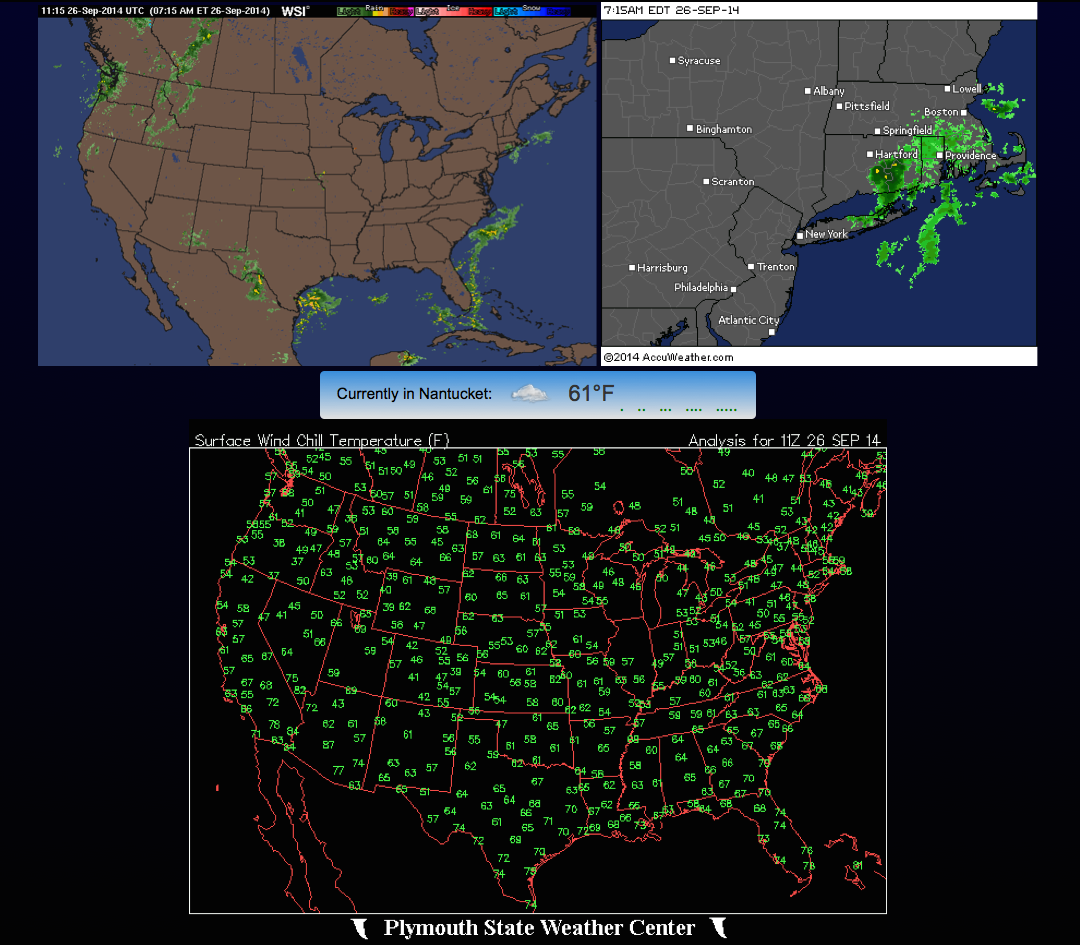
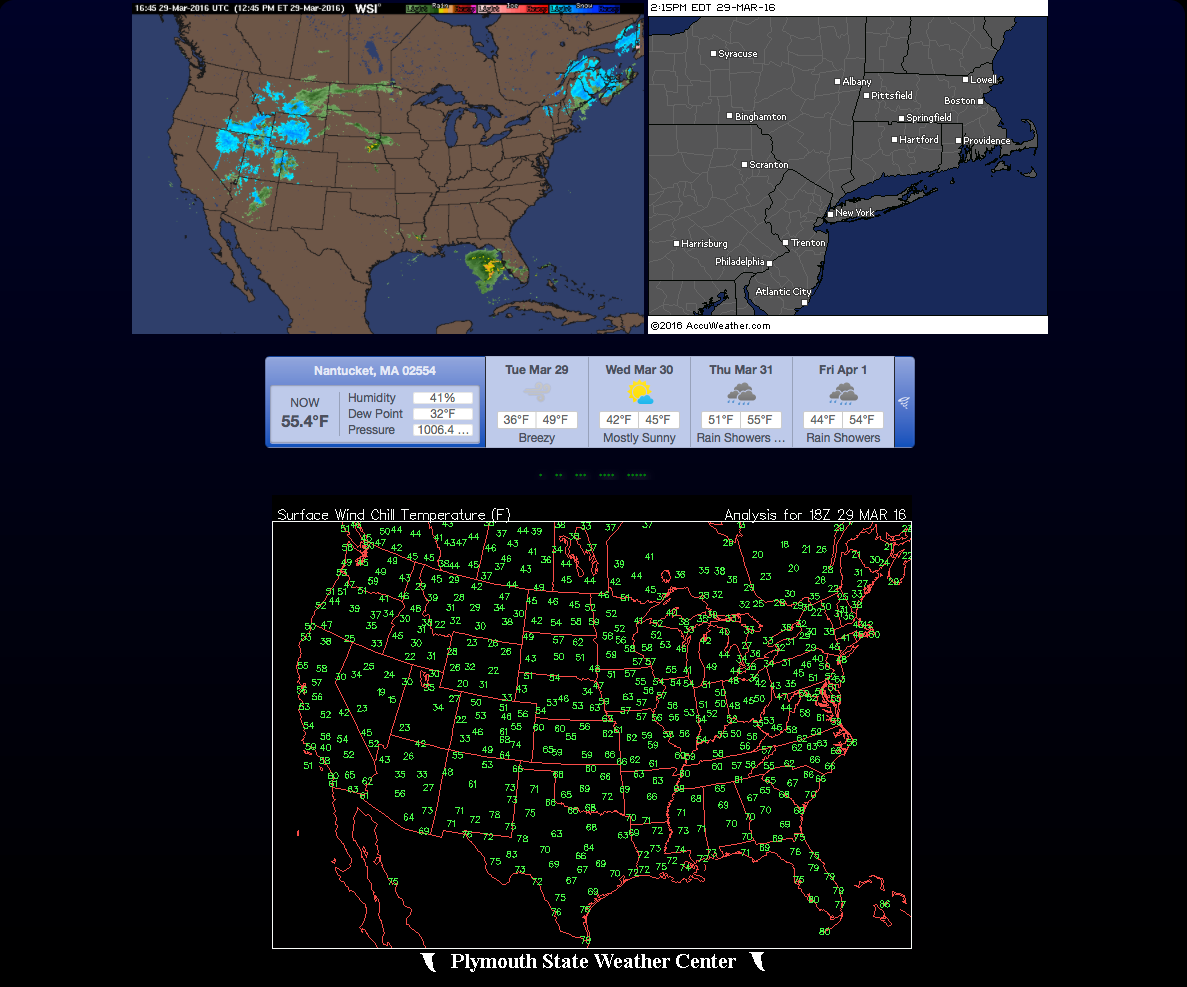
Update
Yahoo changed their YQL API to require keys, so the live weather data
is  now coming from WillyWeather along with a lot more data.

diff --git a/weather.html b/weather.html
@@ -5,27 +5,28 @@
 	<meta http-equiv="Content-Type" content="text/html; charset=UTF-8" />
 	<meta http-equiv="REFRESH" content="600"> <!-- refresh page every 10min-->
 	<style type="text/css"> 
-		.centeredImage { text-align:center; margin-top:0px; margin-bottom:0px; padding:0px; 
+		.centeredImage { 
+		    text-align: center; margin-top:0px; margin-bottom:0px; padding:0px; 
                         -webkit-border-radius: 15px;
                         border-radius: 15px;
  			background: -moz-linear-gradient(top, rgba(0,0,40,1) 0%, rgba(0,0,0,1) 100%); /* FF3.6+ */
                         background: -webkit-gradient(linear, left top, left bottom, color-stop(0%,rgba(10,10,40,1)), color-stop(100%,rgba(0,0,0,1)));       
                         background: -webkit-linear-gradient(top, rgba(0,0,40,1) 0%,rgba(0,0,0,1) 100%);
-			 background: -o-linear-gradient(top, rgba(0,0,40,1) 0%,rgba(0,0,0,1) 100%); /* Opera11.10+ */
+			            background: -o-linear-gradient(top, rgba(0,0,40,1) 0%,rgba(0,0,0,1) 100%); /* Opera11.10+ */
                         background: -ms-linear-gradient(top, rgba(0,0,40,1) 0%,rgba(0,0,0,1) 100%); /* IE10+ */
-			filter: progid:DXImageTransform.Microsoft.gradient( startColorstr='#f0f0f0', endColorstr='#e0e0e0',GradientType=0 ); /* IE6-9 */
+			            filter: progid:DXImageTransform.Microsoft.gradient( startColorstr='#f0f0f0', endColorstr='#e0e0e0',GradientType=0 ); /* IE6-9 */
                         background: linear-gradient(top, rgba(0,0,40,1) 0%,rgba(0,0,0,1) 100%); /* W3C */		
 		} 
 		body {background: black;}
 		A:visited, A:link, A:active  { text-decoration: none; color: green; text-shadow: 2px 2px 8px #ffffff}
 
 		#wxWrap {
-			width: 375px;
+			width: 630px;
 			background: #EEE; /* Old browsers */
 			background: -moz-linear-gradient(top, rgba(56,141,219,1) 0%, rgba(224,224,224,1) 100%); /* FF3.6+ */
 			background: -webkit-gradient(linear, left top, left bottom, color-stop(0%,rgba(56,141,14,1)), color-stop(100%,rgba(224,224,224,1))); /* Chrome,Safari4+ */
-			background: -webkit-linear-gradient(top, rgba(56,141,219,1) 0%,rgba(224,224,224,1) 100%); /* Chrome10+,Safari5.1+ */
-			background: -o-linear-gradient(top, rgba(56,141,219,1) 0%,rgba(224,224,224,1) 100%); /* Opera11.10+ */
+			background: -webkit-linear-gradient(top, rgba(57,63,85,1) 0%,rgba(224,224,224,1) 100%); /* Chrome10+,Safari5.1+ */
+			background: -o-linear-gradient(top, rgba(23,75,161,1) 0%,rgba(224,224,224,1) 100%); /* Opera11.10+ */
 			background: -ms-linear-gradient(top, rgba(56,141,219,1) 0%,rgba(224,224,224,1) 100%); /* IE10+ */
 			filter: progid:DXImageTransform.Microsoft.gradient( startColorstr='#f0f0f0', endColorstr='#e0e0e0',GradientType=0 ); /* IE6-9 */
 			background: linear-gradient(top, rgba(56,141,219,1) 0%,rgba(224,224,224,1) 100%); /* W3C */
@@ -34,36 +35,7 @@
 			-moz-border-radius: 4px;
 			border-radius: 4px;
 		}
-		#wxIntro {
-			display: inline-block;
-			font: 14px/20px Arial,Verdana,sans-serif;
-			color: black;
-			vertical-align: top;
-			padding-top: 9px;
-		}
-		#wxIcon {
-			display: inline-block;
-			width: 61px;
-			height: 34px;
-			margin: 2px 0 -1px 1px;
-			overflow: hidden;
-			background: url('http://l.yimg.com/a/lib/ywc/img/wicons.png') no-repeat 61px 0;
-		}
-		#wxIcon2 {
-			display: inline-block;
-			width: 34px;
-			height: 34px;
-			margin: 1px 6px 0 8px;
-			overflow: hidden;
-		}
-		#wxTemp {
-			display: inline-block;
-			font: 20px/28px Arial,Verdana,sans-serif;
-			color: #333;
-			vertical-align: top;
-			padding-top: 5px;
-			margin-left: 0;
-		}
+
 	</style>
 	<script> 
 		// This is the implementation of SimpleSwap
@@ -111,58 +83,25 @@
 	 <img width="512" height="331" src="http://images.intellicast.com/WxImages/RadarLoop/usa_None_anim.gif" title="North America-- Intellicast, but click and go to Forcast.io for more detail.">
 	 <img src="http://sirocco.accuweather.com/nx_mosaic_400x300c/SIR/inmaSIRCT_.gif" title="NE Region-- Accuweather, but click and go to Forcast.io for more detail.">
 	</a><br>
-	
-	<!--Insert current weather temp from Yahoo's YQL-->
-	<span id="wxWrap" style="display: inline-block;">
-		<span id="wxIntro">
-				Currently in Nantucket: 
-		</span>
-		<span id="wxIcon"></span>
-		<span id="wxTemp"></span>
+	<br>
+    <span style="width: 650px;">
+		<iframe style="display: inline-block;" src="http://cdnres.willyweather.com/widget/loadView.html?id=45254" width="650" height="92" frameborder="0" scrolling="no"></iframe>
+		<a style="z-index: 1;width: 20px;margin: -92px 0 0 0;position: relative;height: 92px;text-indent: -9999em;float: right" href="http://www.willyweather.com/ma/nantucket-county/nantucket.html">Nantucket Weather</a>
+	</span>
+    <br>
+	<span style="display: inline-block; margin: 10px 0 15px 0">
 		<a title="Bouy Data from Nantucket Sound" href="http://www.ndbc.noaa.gov/station_page.php?station=44020">.</a>
-		 &nbsp; <a href="http://www.wunderground.com/DisplayPollen.asp?Zipcode=02554" title="Pollen Levels">..</a> 
+		 &nbsp; <a title="Pollen Levels" href="http://www.wunderground.com/DisplayPollen.asp?Zipcode=02554">..</a> 
 		 &nbsp; <a title="Wind Map" href="http://hint.fm/wind/">...</a> 
 		 &nbsp; <a title="Wunderground Nantucket" href="http://www.wunderground.com/cgi-bin/findweather/getForecast?query=ack">....</a> 
 		 &nbsp; <a title="weather spark - track weather in detail over time" href="http://weatherspark.com/#!dashboard;q=Nantucket,+Massachusetts,+United+States">.....</a>
 	</span><br>
-	<script type="text/javascript">
-	// javascript will go here
-	$(function(){
-		// Specify the ZIP/location code and units (f or c)
-		var loc = '02554'; // 10001 or e.g. SPXX0050
-		var u = 'f';
-
-		var query = "SELECT item.condition FROM weather.forecast WHERE location='" + loc + "' AND u='" + u + "'";
-		var cacheBuster = Math.floor((new Date().getTime()) / 1200 / 1000);
-		var url = 'http://query.yahooapis.com/v1/public/yql?q=' + encodeURIComponent(query) + '&format=json&_nocache=' + cacheBuster;
-
-		window['wxCallback'] = function(data) {
-				var info = data.query.results.channel.item.condition;
-				$('#wxIcon').css({
-						backgroundPosition: '-' + (61 * info.code) + 'px 0'
-				}).attr({
-						title: info.text
-				});
-				$('#wxIcon2').append('<img src="http://l.yimg.com/a/i/us/we/52/' + info.code + '.gif" width="34" height="34" title="' + info.text + '" />');
-				$('#wxTemp').html(info.temp + '&deg;' + (u.toUpperCase()));
-		};
-
-		$.ajax({
-				url: url,
-				dataType: 'jsonp',
-				cache: true,
-				jsonpCallback: 'wxCallback'
-		});
-		
-	});
-	</script><!--end of YQL-->
-
-	<img src="http://vortex.plymouth.edu/uschill.gif" oversrc="http://vortex.plymouth.edu/usheat.gif" title="heat / wind-chill map">
-	<!-- images to use
+	
+		<img src="http://vortex.plymouth.edu/uschill.gif" oversrc="http://vortex.plymouth.edu/usheat.gif" title="heat / wind-chill map">
+		<!-- images to use
 			 <img src="http://vortex.plymouth.edu/usheat.gif" title="heat map">	
 			 <img src="http://vortex.plymouth.edu/uschill.gif" title="wind-chill map"> 
 	-->
-<br><span>Beware of the Anarchy of Stillness</span>
-</div>
+ </div>
  </body>
 </html>
